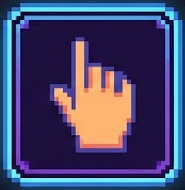
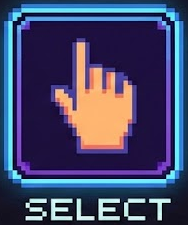
agregue iconos y posicione a algunos

diff --git a/js/canvas.js b/js/canvas.js
@@ -25,8 +25,8 @@ function drawIcon(imagagePath, posicionRelativa, positionY) {
 
 function draw() {
   background(220);
-  drawIcon(selectIcon, x, 0);
-  drawIcon(selectIcon, x + 1, 0);
+  drawIcon(selectIcon, x, 650);
+  drawIcon(selectIcon, x + 1, 650);
   noLoop();
 }
 
